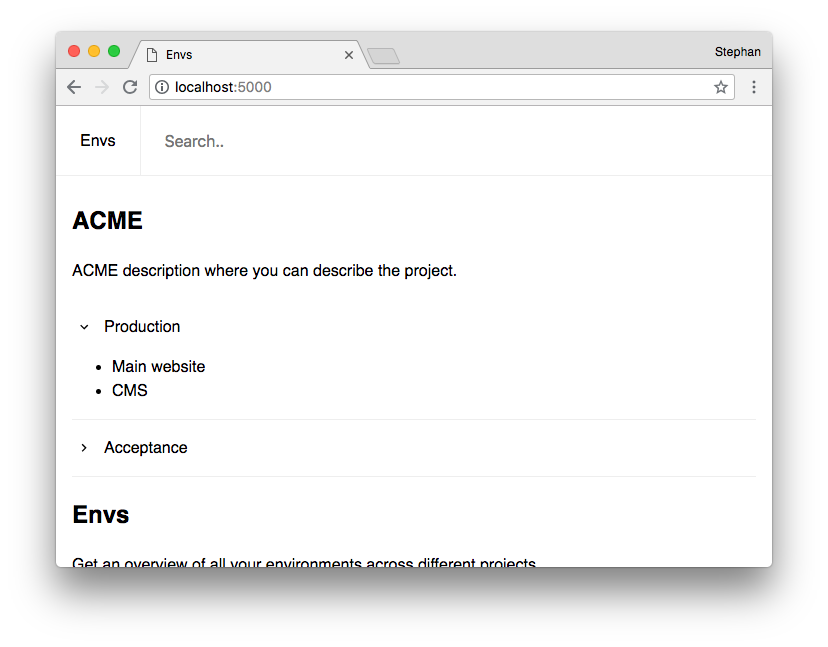
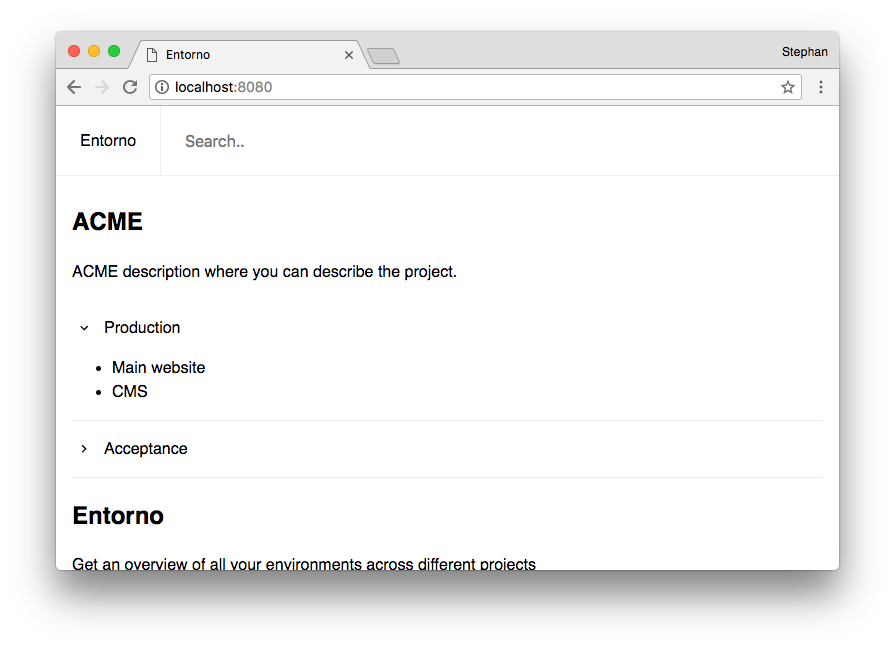
Rebrand to entorno

diff --git a/src/index.js b/src/index.js
@@ -39,7 +39,7 @@ const renderProject = ({ project }) =>
 const view = state =>
   h('div', { class: 'app' }, [
     h('header', { class: 'header' }, [
-      h('a', { class: 'header__link', href: '/' }, 'Envs'),
+      h('a', { class: 'header__link', href: '/' }, 'Entorno'),
       h('input', {
         'aria-label': 'Search environments',
         class: 'header__search',

diff --git a/src/index.template.html b/src/index.template.html
@@ -2,7 +2,7 @@
 <html lang="en">
 
 <head>
-  <title>Envs</title>
+  <title>Entorno</title>
   <meta charset="utf-8" />
   <meta http-equiv="x-ua-compatible" content="ie=edge">
   <meta name="viewport" content="width=device-width, initial-scale=1, shrink-to-fit=no" />

diff --git a/README.md b/README.md
@@ -1,4 +1,4 @@
-# Envs
+# Entorno
 
 Get an overview of all your environments across different projects.
 
